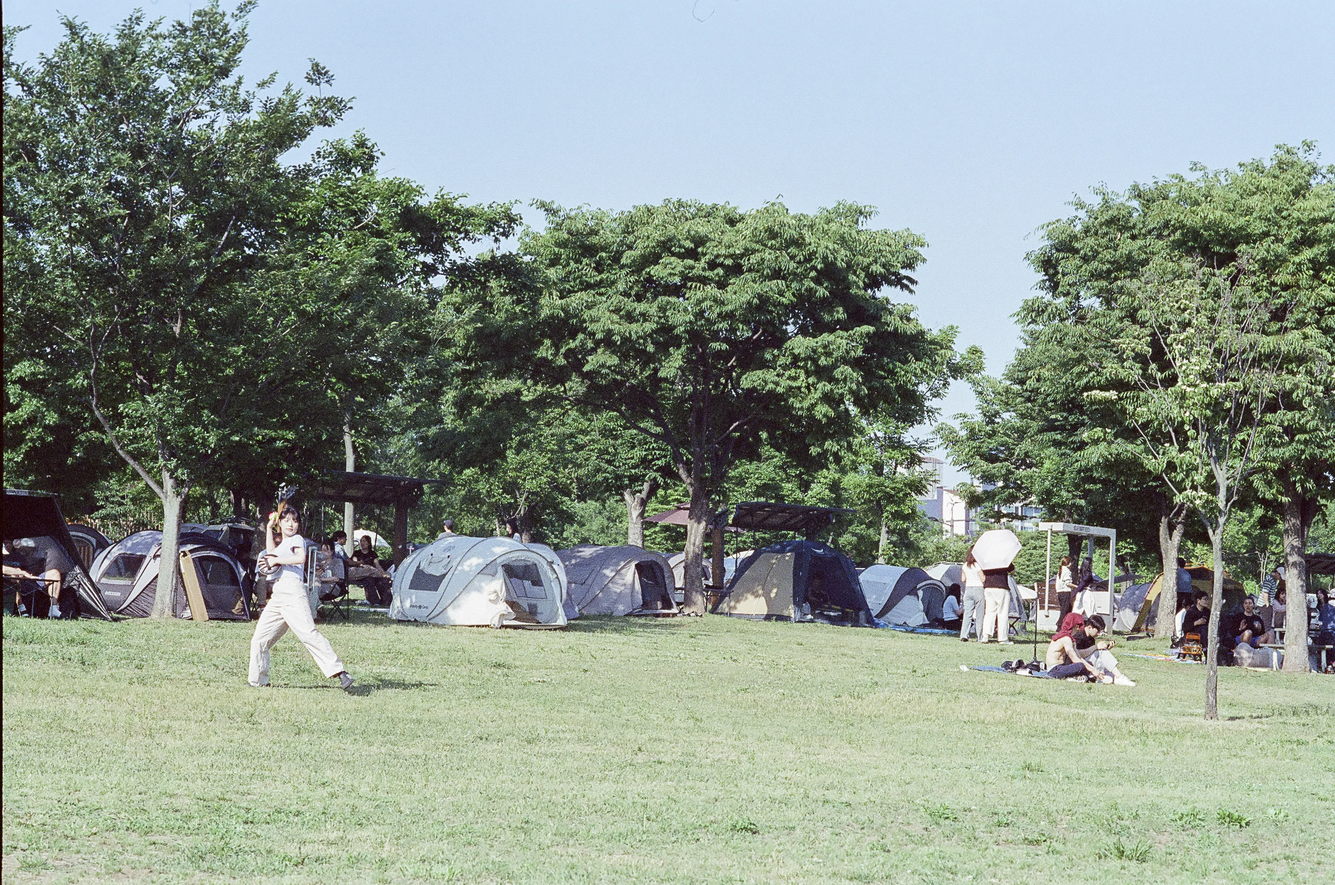
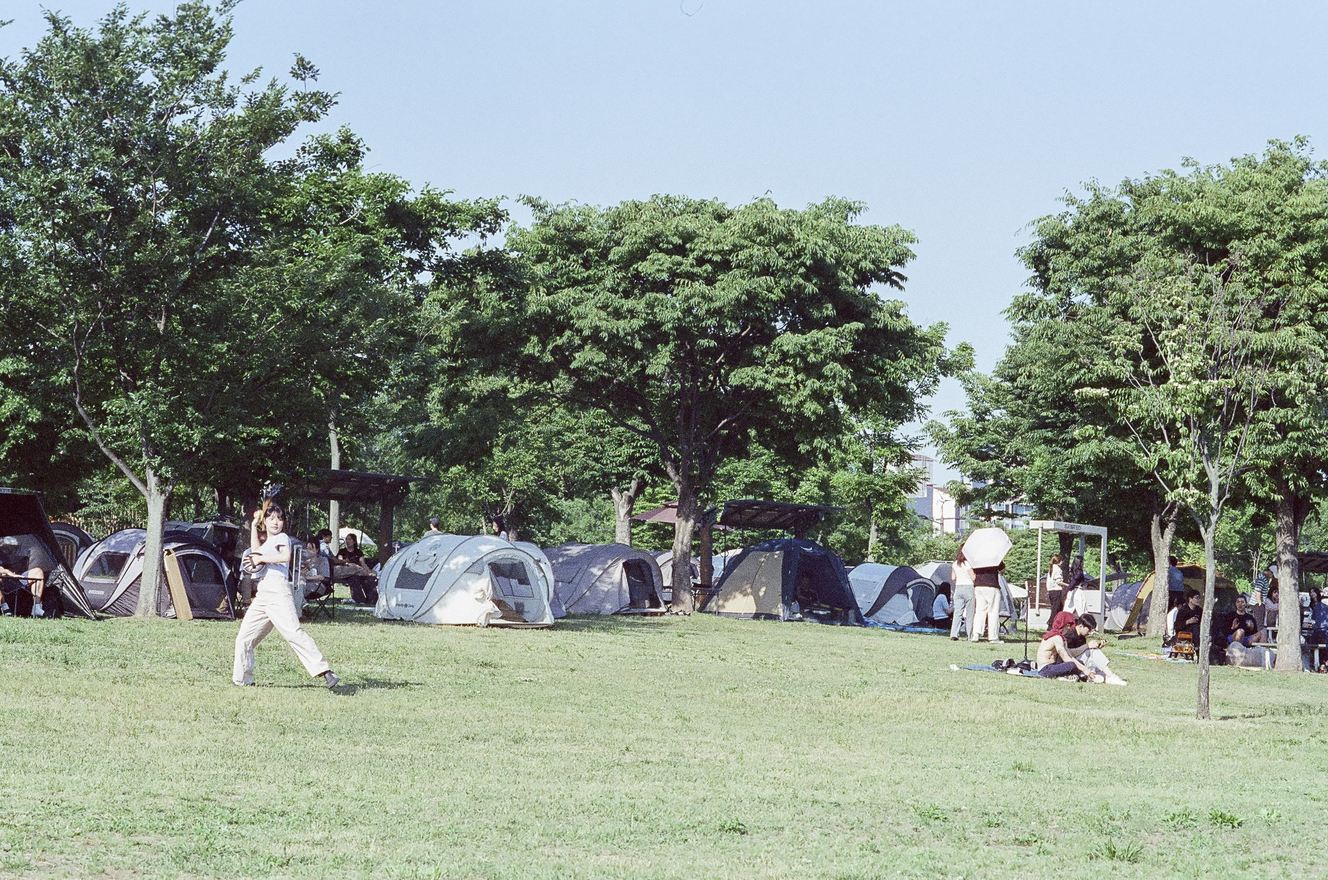
Sync portfolio: Daily/Experimental copy, Daily photo06, line-break balance
Claude-Session: https://claude.ai/code/session_01WyQniX1KsL1JcxTzMpR2XW

diff --git a/public/index.html b/public/index.html
@@ -112,7 +112,7 @@
           <li class="reveal" style="--d:.06s"><a href="#room-daily"><span class="num">02</span><span class="name">Daily</span><span class="desc">Ordinary light</span></a></li>
           <li class="reveal" style="--d:.12s"><a href="#room-film"><span class="num">03</span><span class="name">Film</span><span class="desc">36 frames, no preview</span></a></li>
           <li class="reveal" style="--d:.18s"><a href="#room-portrait"><span class="num">04</span><span class="name">Portrait</span><span class="desc">You let me look</span></a></li>
-          <li class="reveal" style="--d:.24s"><a href="#room-experimental"><span class="num">05</span><span class="name">Experimental</span><span class="desc">Mistakes I kept</span></a></li>
+          <li class="reveal" style="--d:.24s"><a href="#room-experimental"><span class="num">05</span><span class="name">Experimental</span><span class="desc">Long exposures</span></a></li>
         </ol>
       </div>
     </section>
@@ -187,13 +187,13 @@
       <header class="room-head wrap">
         <p class="room-num reveal">02 —</p>
         <h2 class="room-title reveal" id="room-daily-title">DAILY</h2>
-        <p class="room-text reveal" style="--d:.15s">Nothing happens here — a kitchen, a bus window, 7 a.m. That is exactly why I keep them.</p>
+        <p class="room-text reveal" style="--d:.15s">Nothing happens here — a hotel bed, a beach at dusk, a page turned, a throw across the grass. That is exactly why I keep them.</p>
       </header>
 
       <!-- 📷 daily/photo01.webp | DAILY 대표 사진 · 크게 가운데 | 권장: 가로 3:2 (세로 사진도 잘리지 않음) -->
       <figure class="work layout-center wrap">
         <div class="frame reveal-img">
-          <img src="images/daily/photo01.webp" alt="Daily — morning light falling across a small kitchen table"
+          <img src="images/daily/photo01.webp" alt="Daily — someone sitting up in a hotel bed, a lamp glowing beside them"
                width="2400" height="1600" loading="lazy" decoding="async">
         </div>
         <figcaption class="label"><span class="label-title">Out of Bed</span><span>Canon QL17 G3</span><span>Vision3 500T</span><span>Incheon, 2026</span></figcaption>
@@ -205,31 +205,31 @@
           <div class="hscroll-track" tabindex="0" role="group" aria-label="Daily — a horizontal sequence of five photographs">
             <div class="hs-intro">
               <p class="eyebrow">Sequence</p>
-              <p class="hs-title">A week of<br><em>ordinary light.</em></p>
+              <p class="hs-title">Days of<br><em>ordinary light.</em></p>
             </div>
             <!-- 📷 daily/photo02.webp | DAILY 가로 시퀀스 1 | 권장: 가로 3:2 -->
             <figure class="work hs-item">
-              <div class="frame reveal-img"><img src="images/daily/photo02.webp" alt="Daily — Monday, a crowded subway platform" width="1800" height="1200" loading="lazy" decoding="async"></div>
+              <div class="frame reveal-img"><img src="images/daily/photo02.webp" alt="Daily — a woman with her hair in a bun walking past bollards, carrying white flowers" width="1800" height="1200" loading="lazy" decoding="async"></div>
               <figcaption class="label"><span class="label-title">In Passing</span><span>Nikon F4</span><span>Ektar 100</span><span>Busan, 2026</span></figcaption>
             </figure>
             <!-- 📷 daily/photo03.webp | DAILY 가로 시퀀스 2 | 권장: 세로 3:4 -->
             <figure class="work hs-item">
-              <div class="frame reveal-img"><img src="images/daily/photo03.webp" alt="Daily — Tuesday, a window seat on a city bus" width="1200" height="1600" loading="lazy" decoding="async"></div>
+              <div class="frame reveal-img"><img src="images/daily/photo03.webp" alt="Daily — two people sitting on a beach, a long white bridge across the water" width="1200" height="1600" loading="lazy" decoding="async"></div>
               <figcaption class="label"><span class="label-title">Afternoon by the Sea</span><span>Mamiya RB67</span><span>CineStill 400D</span><span>Busan, 2026</span></figcaption>
             </figure>
             <!-- 📷 daily/photo04.webp | DAILY 가로 시퀀스 3 | 권장: 가로 3:2 -->
             <figure class="work hs-item">
-              <div class="frame reveal-img"><img src="images/daily/photo04.webp" alt="Daily — Wednesday, late sun on an empty hallway" width="1800" height="1200" loading="lazy" decoding="async"></div>
+              <div class="frame reveal-img"><img src="images/daily/photo04.webp" alt="Daily — a man in a knitted beanie reading in a bookstore, warm lamps behind him" width="1800" height="1200" loading="lazy" decoding="async"></div>
               <figcaption class="label"><span class="label-title">A Cozy Read</span><span>Canon QL17 G3</span><span>CineStill 800T</span><span>Seoul, 2025</span></figcaption>
             </figure>
             <!-- 📷 daily/photo05.webp | DAILY 가로 시퀀스 4 | 권장: 정사각형 1:1 -->
             <figure class="work hs-item">
-              <div class="frame reveal-img"><img src="images/daily/photo05.webp" alt="Daily — Thursday night, a convenience store glowing on a dark street" width="1600" height="1600" loading="lazy" decoding="async"></div>
+              <div class="frame reveal-img"><img src="images/daily/photo05.webp" alt="Daily — a police officer in a white helmet at a crosswalk, in black and white" width="1600" height="1600" loading="lazy" decoding="async"></div>
               <figcaption class="label"><span class="label-title">Order in the Streets</span><span>Canon QL17 G3</span><span>Double X</span><span>Seoul, 2026</span></figcaption>
             </figure>
             <!-- 📷 daily/photo06.webp | DAILY 가로 시퀀스 5 | 권장: 가로 3:2 -->
             <figure class="work hs-item">
-              <div class="frame reveal-img"><img src="images/daily/photo06.webp" alt="Daily — Friday" width="1800" height="1200" loading="lazy" decoding="async"></div>
+              <div class="frame reveal-img"><img src="images/daily/photo06.webp" alt="Daily — a woman mid-throw on a grass field, tents and trees behind her" width="1800" height="1200" loading="lazy" decoding="async"></div>
               <figcaption class="label"><span class="label-title">The Throw</span><span>Nikon F4</span><span>CineStill 800T</span><span>Seoul, 2026</span></figcaption>
             </figure>
           </div>
@@ -366,7 +366,7 @@
       <header class="room-head wrap">
         <p class="room-num reveal">05 —</p>
         <h2 class="room-title reveal" id="room-experimental-title">EXPERIMENTAL</h2>
-        <p class="room-text reveal" style="--d:.15s">long shutters, light leaks — and the mistakes I decided to keep.</p>
+        <p class="room-text reveal" style="--d:.15s">Long exposures, shutters left open on purpose&nbsp;— letting the light draw its own lines.</p>
       </header>
 
       <!-- 📷 experimental/photo01.webp | EXPERIMENTAL 대표 사진 · 작은 액자에서 화면 전체로 커짐 | 권장: 가로 3:2 -->

diff --git a/public/style.css b/public/style.css
@@ -180,7 +180,7 @@ body.menu-open .site-header { background-color: var(--bg); color: var(--fg); bor
 .room-num { grid-column: 1 / -1; font: 500 .8125rem/1 var(--mono); letter-spacing: .1em; color: var(--muted); margin-bottom: 18px; }
 .room-title { grid-column: 1 / -1; font-size: clamp(3.4rem, 13vw, 13rem); font-weight: 700; letter-spacing: -.06em; line-height: .86; margin-left: -.04em; white-space: nowrap; overflow-wrap: normal; word-break: keep-all; }
 #room-experimental-title { font-size: min(clamp(3.4rem, 13vw, 13rem), 12.8cqw); } /* 가장 긴 이름: 폭을 넘을 때만 줄어듦 */
-.room-text { grid-column: 7 / 12; margin-top: clamp(28px, 5vh, 56px); font-family: var(--serif); font-style: italic; font-size: clamp(1.1rem, 1.6vw, 1.45rem); line-height: 1.5; color: var(--muted); }
+.room-text { grid-column: 7 / 12; margin-top: clamp(28px, 5vh, 56px); font-family: var(--serif); font-style: italic; font-size: clamp(1.1rem, 1.6vw, 1.45rem); line-height: 1.5; color: var(--muted); text-wrap: balance; }
 
 .work { position: relative; }
 .frame { display: block; overflow: hidden; line-height: 0; }
